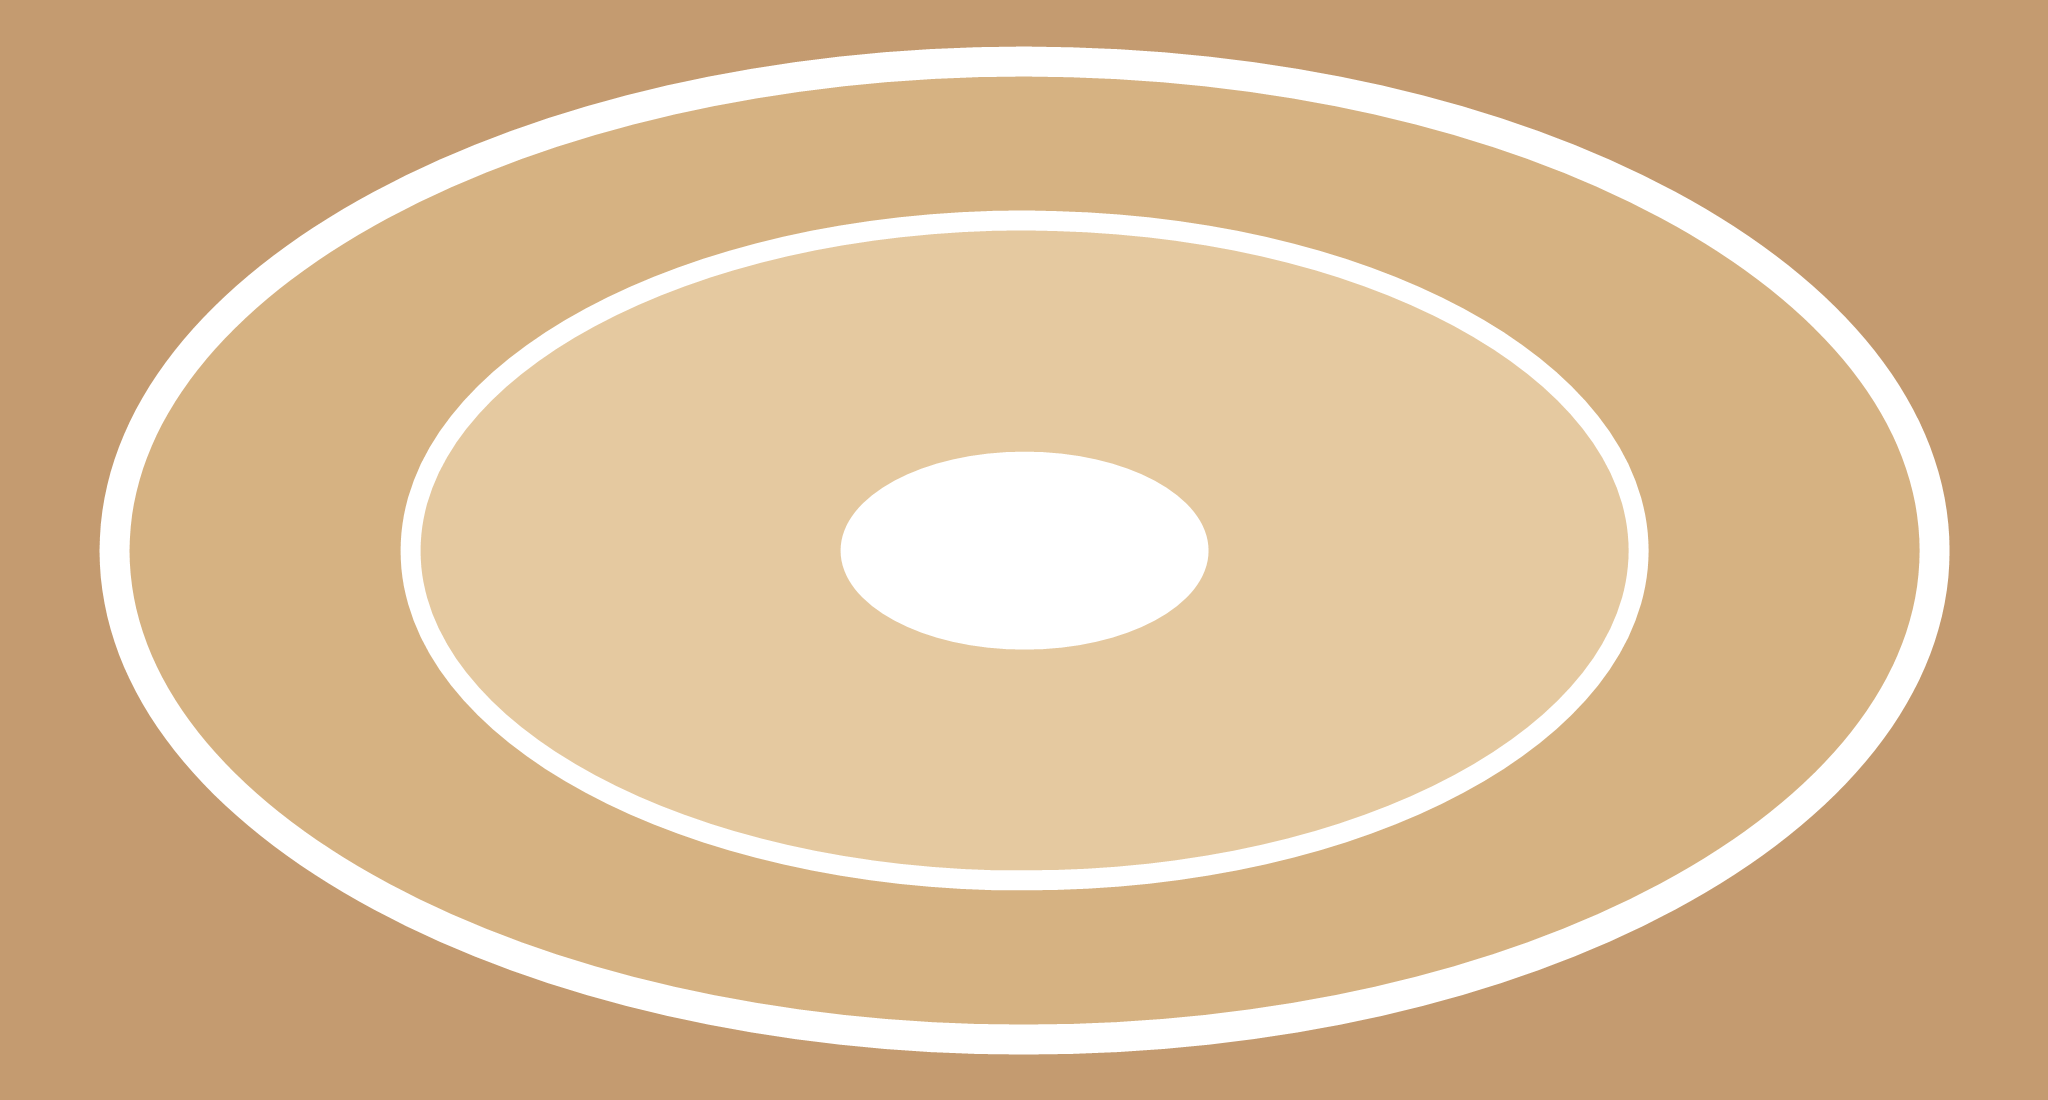
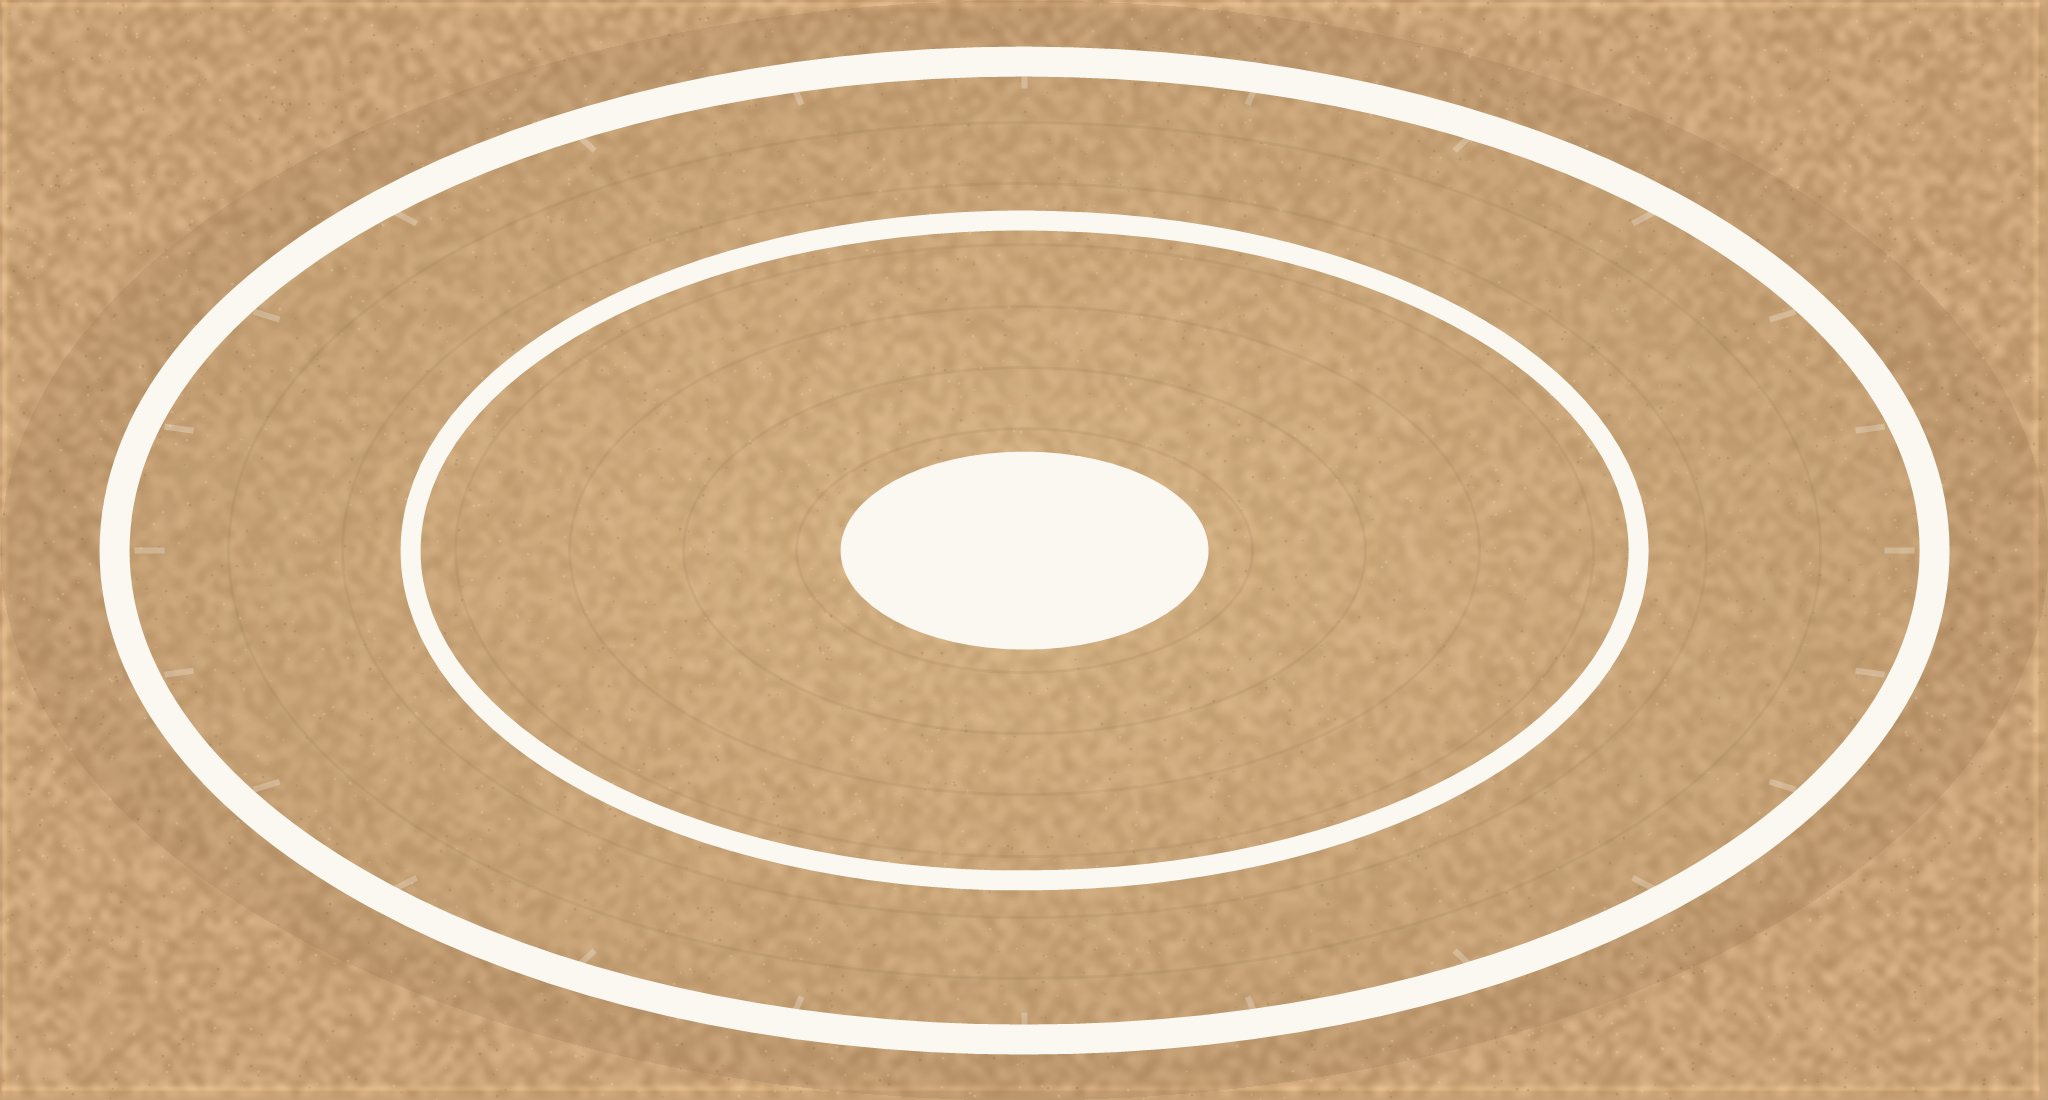
Replace arena placeholder with textured oval art
ArenaOval.png now uses a deterministic noise-based clay texture with a soft radial gradient, scuff arcs, speckles, the two white rings, center disc, and 24 radial ticks. Same 2048x1100 aspect and ring fraction, so the 8.2 x 4.4 physics boundary is unchanged. Keep the flat placeholder under Assets/Game/Art/Placeholder/ for rollback.

AI image generation was unavailable (insufficient credits), so the art was drawn procedurally; a true artist asset can be swapped in later via the checklist. Docs updated. EditMode 98/98, PlayMode 20/20, dotnet build clean.

diff --git a/arena art feature.md b/arena art feature.md
@@ -1,10 +1,16 @@
 # Arena Art — Future Slice
 
-**Status: design only. Not implemented. Priority 3**, after `ring out feature.md`
-and `wave ramp feature.md`.
+**Status: implemented.** This was the last future slice. The flat placeholder was
+replaced with a textured sand/clay oval; the geometry is unchanged.
 
 Goal: replace the procedural placeholder oval with real art **without changing
 the arena geometry**.
+
+The AI image generator was unavailable (insufficient credits), so the asset was
+drawn procedurally: a deterministic noise-based clay texture with a soft radial
+gradient, scuff arcs, speckles, the two white rings, the center disc, and 24
+radial ticks. A true artist asset can still be dropped in with the checklist
+below.
 
 ---
 
@@ -50,7 +56,8 @@ Geometry source of truth is `ArenaBounds`, not the art. See `arena system.md`.
 3. Import as **Single**, PPU **100**, filter Bilinear, max size 2048.
 4. Replace `ArenaOval.png` in place (keeps GUID and scene reference), or supply a
    new file and update the Arena SpriteRenderer.
-5. Keep the old placeholder in `Assets/Game/Art/Placeholder/` for rollback.
+5. The old placeholder is kept in `Assets/Game/Art/Placeholder/ArenaOval-placeholder.png`
+   for rollback; git history is the other backup.
 6. If the aspect or ring fraction changes, update `ArenaBounds.arenaRadii` and
    `ArenaFraming.margin` — the art must not redefine the physics boundary.
 
@@ -85,7 +92,7 @@ touches no scripts.
 
 ## 7. Slice checklist
 
-1. Produce the asset to the brief.
-2. Import and swap; keep placeholder for rollback.
-3. Capture the three aspect screenshots.
-4. Update `arena system.md` art section and changelog.
+1. Produce the asset to the brief — done (procedural texture).
+2. Import and swap; keep placeholder for rollback — done.
+3. Capture the three aspect screenshots — pending manual play check.
+4. Update `arena system.md` art section and changelog — done.

diff --git a/battle system.md b/battle system.md
@@ -998,8 +998,8 @@ public struct AiCommand
 
 Arena geometry, art, camera framing, and physics boundary are documented in
 `arena system.md`. Ring-out is implemented (player lose, enemy win/advance) and
-documented in `ring out feature.md`. Wave ramp is implemented (`wave ramp
-feature.md`); only `arena art feature.md` remains as a future slice.
+documented in `ring out feature.md`. Wave ramp and arena art are also implemented
+(`wave ramp feature.md`, `arena art feature.md`); the future-slice queue is empty.
 
 `BattleController` runs `Countdown → Fighting → Finished(result)` and evaluates the `IWinCondition` list each tick.
 
@@ -1380,6 +1380,7 @@ Fill in as each phase lands.
 | 20 | Remove enemy dash wind-up and its punch-scale telegraph; pool hit particles (8 prewarm, 32 cap) | §15, §20.3 |
 | 11 | Ring-out implemented: 0.05 s tick, player lose, enemy win/advance, `DefeatEnemy()` shared path | §17 |
 | 9 | Wave ramp applied to six AI profiles; dead dash-chance fields removed | §16 |
+| 20 | Arena art replaced with textured oval; geometry and code unchanged | §3, `arena system.md` |
 | 8b | Same-element 2-piece part synergy: +5% attack and defense | §13.8 |
 | 8b | Player/enemy prefabs assemble from `BeyBlueprint` through `BeyBuilder` | §13.3 |
 | 9 | Snapshot carries active readiness/cooldowns; input gate injected instead of resolved per input | §16 |

diff --git a/arena system.md b/arena system.md
@@ -34,7 +34,8 @@ on all four sides.
 
 ## 2. Art
 
-`Assets/Game/Art/ArenaOval.png` is a **placeholder** drawn for this slice.
+`Assets/Game/Art/ArenaOval.png` is a textured sand/clay oval. The earlier flat
+placeholder is kept at `Assets/Game/Art/Placeholder/ArenaOval-placeholder.png`.
 
 | Property | Value |
 |---|---|
